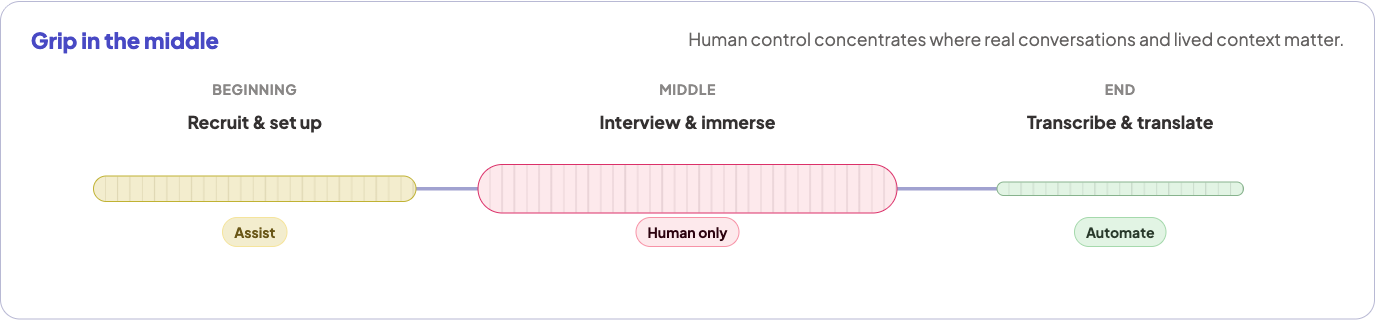
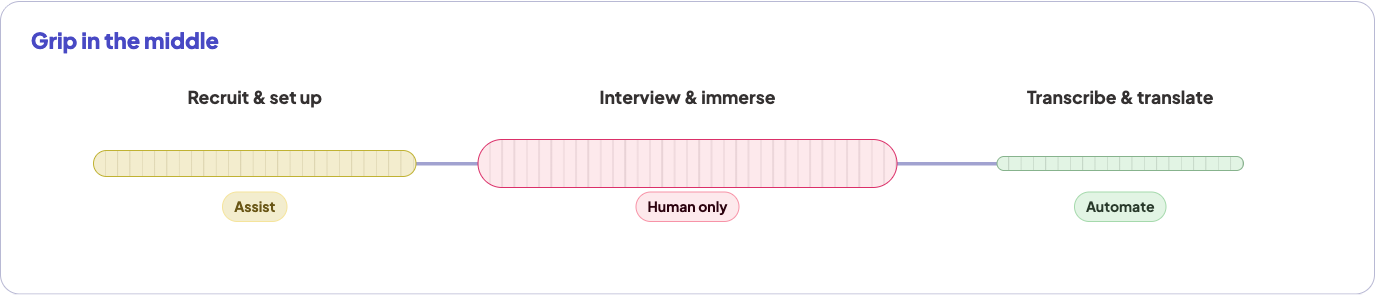
Simplify workflow grip diagrams

diff --git a/src/scripts/workflow-grip-diagram.ts b/src/scripts/workflow-grip-diagram.ts
@@ -5,12 +5,10 @@ type GripLevel = "assist" | "automate" | "guided" | "human";
 type GripStep = {
   label: string;
   level: GripLevel;
-  position: "Beginning" | "End" | "Middle";
   zone: string;
 };
 
 type GripPhase = {
-  description: string;
   label: string;
   profile: string;
   steps: GripStep[];
@@ -18,54 +16,49 @@ type GripPhase = {
 
 const phases: Record<string, GripPhase> = {
   planning: {
-    description: "Human control starts strongest, then releases once the direction is set.",
     label: "Planning",
     profile: "Grip at the front",
     steps: [
-      { label: "Frame the problem", level: "human", position: "Beginning", zone: "Human only" },
-      { label: "Design the study", level: "guided", position: "Middle", zone: "Guided" },
-      { label: "Build the guide", level: "assist", position: "End", zone: "Assist" },
+      { label: "Frame the problem", level: "human", zone: "Human only" },
+      { label: "Design the study", level: "guided", zone: "Guided" },
+      { label: "Build the guide", level: "assist", zone: "Assist" },
     ],
   },
   "data-collection": {
-    description: "Human control concentrates where real conversations and lived context matter.",
     label: "Data Collection",
     profile: "Grip in the middle",
     steps: [
-      { label: "Recruit & set up", level: "assist", position: "Beginning", zone: "Assist" },
-      { label: "Interview & immerse", level: "human", position: "Middle", zone: "Human only" },
-      { label: "Transcribe & translate", level: "automate", position: "End", zone: "Automate" },
+      { label: "Recruit & set up", level: "assist", zone: "Assist" },
+      { label: "Interview & immerse", level: "human", zone: "Human only" },
+      { label: "Transcribe & translate", level: "automate", zone: "Automate" },
     ],
   },
   analysis: {
-    description: "Human control increases as patterns become meaning, implications, and action.",
     label: "Analysis & meaning-making",
     profile: "Grip tightens as you go",
     steps: [
-      { label: "Observations", level: "automate", position: "Beginning", zone: "Automate" },
-      { label: "Meaning", level: "guided", position: "Middle", zone: "Guided" },
-      { label: "Implications", level: "human", position: "Middle", zone: "Human only" },
-      { label: "Actions", level: "human", position: "End", zone: "Human only" },
+      { label: "Observations", level: "automate", zone: "Automate" },
+      { label: "Meaning", level: "guided", zone: "Guided" },
+      { label: "Implications", level: "human", zone: "Human only" },
+      { label: "Actions", level: "human", zone: "Human only" },
     ],
   },
   reporting: {
-    description: "Human control anchors the message at the start and owns its impact at the end.",
     label: "Reporting",
     profile: "Grip at both ends",
     steps: [
-      { label: "Set the message", level: "human", position: "Beginning", zone: "Human only" },
-      { label: "Craft the telling", level: "assist", position: "Middle", zone: "Assist" },
-      { label: "Tailor & deliver", level: "human", position: "End", zone: "Human only" },
+      { label: "Set the message", level: "human", zone: "Human only" },
+      { label: "Craft the telling", level: "assist", zone: "Assist" },
+      { label: "Tailor & deliver", level: "human", zone: "Human only" },
     ],
   },
   "knowledge-management": {
-    description: "Human control grows as stored material becomes shared meaning and direction.",
     label: "Knowledge Management",
     profile: "Grip at the back",
     steps: [
-      { label: "Archive & tag", level: "automate", position: "Beginning", zone: "Automate" },
-      { label: "Retrieve & connect", level: "assist", position: "Middle", zone: "Assist" },
-      { label: "Synthesise over time", level: "human", position: "End", zone: "Human only" },
+      { label: "Archive & tag", level: "automate", zone: "Automate" },
+      { label: "Retrieve & connect", level: "assist", zone: "Assist" },
+      { label: "Synthesise over time", level: "human", zone: "Human only" },
     ],
   },
 };
@@ -101,10 +94,6 @@ const styles = `
   }
 
   .diagram__intro {
-    align-items: start;
-    display: grid;
-    gap: 0.25rem 1rem;
-    grid-template-columns: minmax(0, auto) minmax(12rem, 1fr);
     margin-bottom: 0.4rem;
   }
 
@@ -116,19 +105,11 @@ const styles = `
     margin: 0;
   }
 
-  .diagram__description {
-    color: color-mix(in srgb, var(--grip-text) 76%, var(--grip-bg));
-    font-size: var(--text-small, 0.82rem);
-    line-height: 1.35;
-    margin: 0;
-    text-align: right;
-  }
-
   .timeline {
-    --grip-center-y: 5.8rem;
+    --grip-center-y: 4.65rem;
     display: grid;
     grid-template-columns: repeat(var(--step-count), minmax(0, 1fr));
-    min-height: 9.5rem;
+    min-height: 8.35rem;
     padding: 0.95rem 0.35rem 0.4rem;
     position: relative;
   }
@@ -158,7 +139,7 @@ const styles = `
 
   .step {
     display: grid;
-    grid-template-rows: 1.15rem 2.45rem 2.5rem 1.4rem;
+    grid-template-rows: 2.45rem 2.5rem 1.4rem;
     justify-items: center;
     min-width: 0;
     opacity: 0;
@@ -168,15 +149,6 @@ const styles = `
       opacity 320ms ease var(--step-delay),
       transform 420ms cubic-bezier(0.2, 0.75, 0.2, 1) var(--step-delay);
     z-index: 1;
-  }
-
-  .step__position {
-    color: color-mix(in srgb, var(--grip-text) 58%, var(--grip-bg));
-    font-size: var(--text-tiny, 0.68rem);
-    font-weight: 700;
-    letter-spacing: 0.04em;
-    line-height: 1;
-    text-transform: uppercase;
   }
 
   .step__name {
@@ -405,22 +377,13 @@ const styles = `
       padding: 0.7rem 0.4rem 3rem;
     }
 
-    .diagram__intro {
-      display: block;
-      padding-inline: 0.35rem;
-    }
+    .diagram__intro { padding-inline: 0.35rem; }
 
     .diagram__profile { font-size: var(--text-small, 0.82rem); }
 
-    .diagram__description {
-      font-size: var(--text-tiny, 0.67rem);
-      margin-top: 0.22rem;
-      text-align: left;
-    }
-
     .timeline {
-      --grip-center-y: 5.6rem;
-      min-height: 8.9rem;
+      --grip-center-y: 4.6rem;
+      min-height: 7.9rem;
       padding-inline: 0;
     }
 
@@ -430,12 +393,7 @@ const styles = `
     }
 
     .step {
-      grid-template-rows: 1rem 2.65rem 2rem 1.35rem;
-    }
-
-    .step__position {
-      font-size: 0.54rem;
-      letter-spacing: 0.02em;
+      grid-template-rows: 2.65rem 2rem 1.35rem;
     }
 
     .step__name {
@@ -504,7 +462,6 @@ class WorkflowGripDiagram extends HTMLElement {
         style="--step-delay: ${120 + index * 150}ms"
         role="listitem"
       >
-        <span class="step__position">${step.position}</span>
         <strong class="step__name">${step.label}</strong>
         <span class="step__grip" aria-hidden="true"></span>
         <span class="step__zone">${step.zone}</span>
@@ -517,7 +474,6 @@ class WorkflowGripDiagram extends HTMLElement {
       <section class="diagram" aria-label="${phase.label} workflow grip map">
         <header class="diagram__intro">
           <h6 class="diagram__profile">${phase.profile}</h6>
-          <p class="diagram__description">${phase.description}</p>
         </header>
         <div class="timeline" style="--step-count: ${phase.steps.length}" role="list">
           <span class="timeline__rail" aria-hidden="true"></span>
@@ -534,7 +490,7 @@ class WorkflowGripDiagram extends HTMLElement {
         <a
           class="diagram-download"
           data-tooltip="download diagram"
-          href="/images/print/${assetName}?v=20260801-4"
+          href="/images/print/${assetName}?v=20260801-6"
           download="${assetName}"
           aria-label="Download ${phase.label} grip map"
         >${downloadIcon}</a>

diff --git a/src/styles/print.css b/src/styles/print.css
@@ -276,8 +276,15 @@
   }
 
   #practice .print-diagram-image + h5 {
-    break-before: page;
-    page-break-before: always;
+    break-after: avoid;
+    break-before: auto;
+    page-break-after: avoid;
+    page-break-before: auto;
+  }
+
+  #practice .print-diagram-image + h5 + .interactive-diagram + .print-diagram-image {
+    break-before: avoid;
+    page-break-before: avoid;
   }
 
   #practice #the-spectrum-how-to-adjust-the-quadrant-for-your-project {

diff --git a/src/content/playbook/03-practice.md b/src/content/playbook/03-practice.md
@@ -75,7 +75,7 @@ Where strategic direction is determined.
   <workflow-grip-diagram phase="planning"></workflow-grip-diagram>
 </div>
 
-<img class="print-diagram-image" src="/images/print/workflow-grip-planning.png?v=20260801-4" alt="Planning workflow grip map showing strongest human ownership at the beginning" />
+<img class="print-diagram-image" src="/images/print/workflow-grip-planning.png?v=20260801-6" alt="Planning workflow grip map showing strongest human ownership at the beginning" />
 
 <span class="highlight">Here the grip is at the front: nail the framing early, and AI can safely help with the rest.</span>
 
@@ -121,7 +121,7 @@ Where authenticity is protected.
   <workflow-grip-diagram phase="data-collection"></workflow-grip-diagram>
 </div>
 
-<img class="print-diagram-image" src="/images/print/workflow-grip-data-collection.png?v=20260801-4" alt="Data collection workflow grip map showing strongest human ownership in the middle" />
+<img class="print-diagram-image" src="/images/print/workflow-grip-data-collection.png?v=20260801-6" alt="Data collection workflow grip map showing strongest human ownership in the middle" />
 
 <span class="highlight">Here the grip is in the middle: AI can handle the setup and the cleanup, but humans have to be in the room for the real conversations.</span>
 
@@ -175,7 +175,7 @@ Where things move fast — and where it's easiest to distort the truth.
   <workflow-grip-diagram phase="analysis"></workflow-grip-diagram>
 </div>
 
-<img class="print-diagram-image" src="/images/print/workflow-grip-analysis.png?v=20260801-4" alt="Analysis workflow grip map showing human ownership tightening toward implications and actions" />
+<img class="print-diagram-image" src="/images/print/workflow-grip-analysis.png?v=20260801-6" alt="Analysis workflow grip map showing human ownership tightening toward implications and actions" />
 
 <span class="highlight">Here the grip tightens as you go: AI can spot what's there, but you own what it means and what to do about it.</span>
 
@@ -223,7 +223,7 @@ Where influence is executed.
   <workflow-grip-diagram phase="reporting"></workflow-grip-diagram>
 </div>
 
-<img class="print-diagram-image" src="/images/print/workflow-grip-reporting.png?v=20260801-4" alt="Reporting workflow grip map showing strong human ownership at both ends" />
+<img class="print-diagram-image" src="/images/print/workflow-grip-reporting.png?v=20260801-6" alt="Reporting workflow grip map showing strong human ownership at both ends" />
 
 <span class="highlight">Here the grip is at both ends: you decide what to say and you own how it lands, AI just helps with the craft in between.</span>
 
@@ -269,7 +269,7 @@ Where research compounds
   <workflow-grip-diagram phase="knowledge-management"></workflow-grip-diagram>
 </div>
 
-<img class="print-diagram-image" src="/images/print/workflow-grip-knowledge-management.png?v=20260801-4" alt="Knowledge management workflow grip map showing strongest human ownership at the end" />
+<img class="print-diagram-image" src="/images/print/workflow-grip-knowledge-management.png?v=20260801-6" alt="Knowledge management workflow grip map showing strongest human ownership at the end" />
 
 <span class="highlight">Here the grip is at the back again: AI can remember everything, but you decide what those memories actually mean.</span>
 
